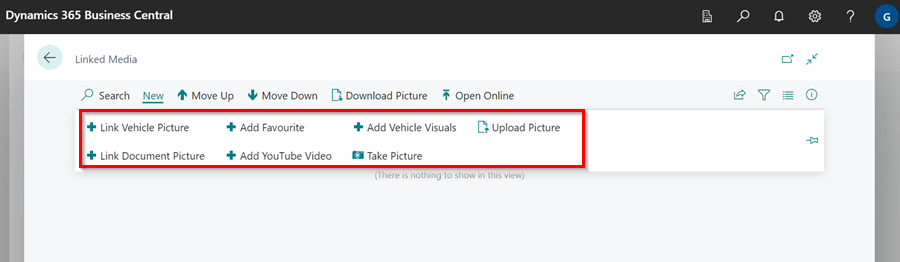
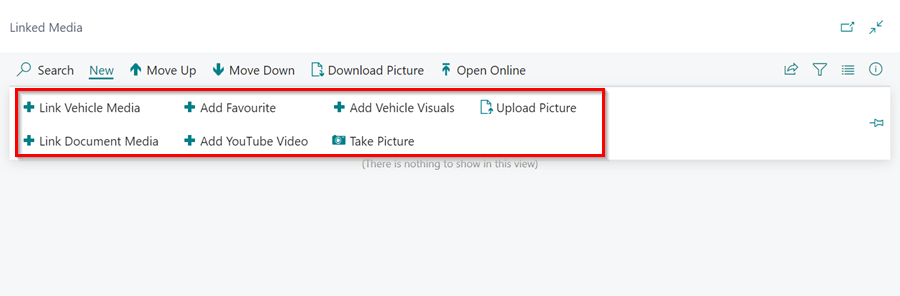
update docs

diff --git a/docs/garagehive-online-documents-adding-and-managing-media.md b/docs/garagehive-online-documents-adding-and-managing-media.md
@@ -32,8 +32,8 @@ To add media in group lines for Jobsheets, Estimates or VIEs, or in document lin
 
       ![](media/garagehive-adding-and-managing-media2.png)
 
-   - **Link Vehicle Picture** - This option lets you link existing vehicle media in the system to your current document.
-   - **Link Document Picture** - This option lets you link the media attached to this document to another part of the document like group items or lines.
+   - **Link Vehicle Media** - This option lets you link existing vehicle media in the system to your current document.
+   - **Link Document Media** - This option lets you link the media attached to this document to another part of the document like group items or lines.
    - **Add Vehicle Visuals** - This option lets you access and link videos from the Vehicle Visuals library (available with a paid plan) to your current document. To do this, select **Add Vehicle Visuals**, choose your desired video, and click **OK**.
       
       ![](media/garagehive-adding-and-managing-media3.png)
